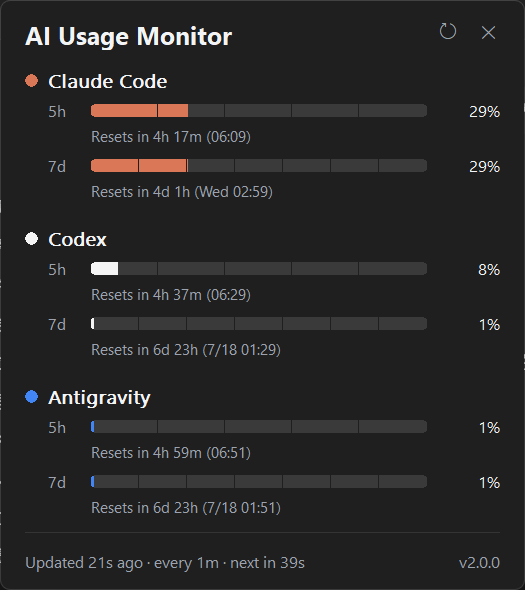
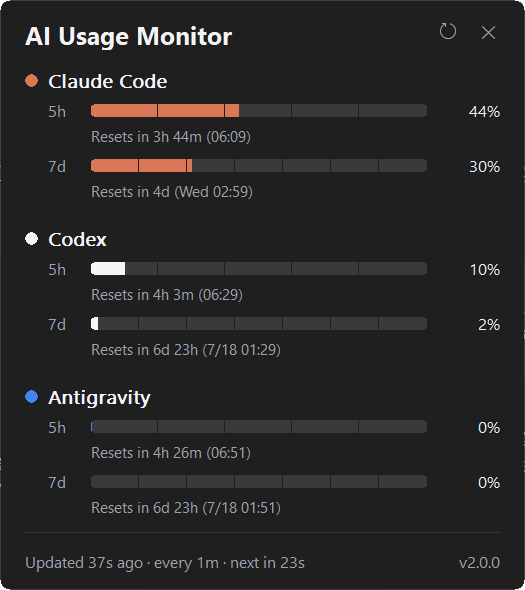
docs: retake screenshots on an opaque taskbar and unify the Usage layout
- Recapture all three images with taskbar transparency off, in the same
  moment: the popup, widget, and tray icons now show identical live data
  on matching backgrounds.
- Make the popup's rounded corners truly transparent, removing the
  stray light pixels that leaked around the old capture's corners.
- Replace the rendered tray preview with a real capture, so it shares
  the widget's actual scale and background; keep --dump-tray-icons in
  the text as the close-up path.
- Restructure Usage into parallel "Taskbar widget" and "Tray icons"
  subsections, each with one image and one explanatory paragraph.

diff --git a/README.md b/README.md
@@ -70,25 +70,27 @@ cargo build --release --locked
 
 ## Usage
 
-<img src=".github/taskbar-widget.png" alt="AI Usage Monitor widget embedded in a Windows taskbar">
-
-<sub>The widget embedded in a Windows 11 taskbar.</sub>
-
 - **Left-click** the widget or a tray icon to open or close the detail popup.
 - **Right-click** either one for settings: providers, refresh interval,
   notifications, start with Windows, and more.
-- **Drag** the widget by its left divider to reposition it; drop it on
-  another taskbar to change monitors.
+
+### Taskbar widget
+
+<img src=".github/taskbar-widget.png" alt="AI Usage Monitor widget embedded in a Windows taskbar">
+
+The widget embeds directly in the taskbar. Drag it by its left divider to
+reposition it; drop it on another taskbar to change monitors.
 
 ### Tray icons
 
 <img src=".github/tray-icons.png" alt="Claude Code, Codex, and Antigravity tray icons">
 
-The number is the current 5-hour usage; the bars underneath track the 5-hour
-(upper) and 7-day (lower) usage. With no data, the number gives way to the
-provider's initial; near a limit, it turns a warning colour. The preview
-above is rendered by the app itself —
-`.\ai-usage-monitor.exe --dump-tray-icons .\preview` exports every state.
+One icon per enabled provider: the number is the current 5-hour usage, and
+the bars underneath track the 5-hour (upper) and 7-day (lower) usage. With
+no data, the number gives way to the provider's initial; near a limit, it
+turns a warning colour. Run
+`.\ai-usage-monitor.exe --dump-tray-icons .\preview` to export every icon
+state for a closer look.
 
 ## Provider requirements
 

diff --git a/README.zh-CN.md b/README.zh-CN.md
@@ -67,22 +67,25 @@ cargo build --release --locked
 
 ## 使用方法
 
-<img src=".github/taskbar-widget.png" alt="嵌入 Windows 任务栏的 AI Usage Monitor 组件">
-
-<sub>嵌入 Windows 11 任务栏的组件。</sub>
-
 - **左键单击**组件或托盘图标，打开或关闭详情弹窗。
 - **右键单击**打开设置菜单：服务商、刷新间隔、通知、开机启动等。
-- **拖动**组件左侧分隔线可调整位置；拖到另一条任务栏可切换显示器。
+
+### 任务栏组件
+
+<img src=".github/taskbar-widget.png" alt="嵌入 Windows 任务栏的 AI Usage Monitor 组件">
+
+组件直接嵌入任务栏。拖动左侧分隔线可调整位置；拖到另一条任务栏可切换
+显示器。
 
 ### 托盘图标
 
 <img src=".github/tray-icons.png" alt="Claude Code、Codex 和 Antigravity 托盘图标">
 
-数字为当前 5 小时用量；下方两条用量条分别对应 5 小时（上）和 7 天（下）
-用量。暂无数据时数字替换为服务商首字母，接近上限时切换为警告色。上图由
-应用自身渲染——运行 `.\ai-usage-monitor.exe --dump-tray-icons .\preview`
-可导出全部图标状态。
+每个已启用的服务商各有一个图标：数字为当前 5 小时用量，下方两条用量条
+分别对应 5 小时（上）和 7 天（下）用量。暂无数据时数字替换为服务商
+首字母，接近上限时切换为警告色。运行
+`.\ai-usage-monitor.exe --dump-tray-icons .\preview` 可导出全部图标状态
+以便细看。
 
 ## 服务商要求
 